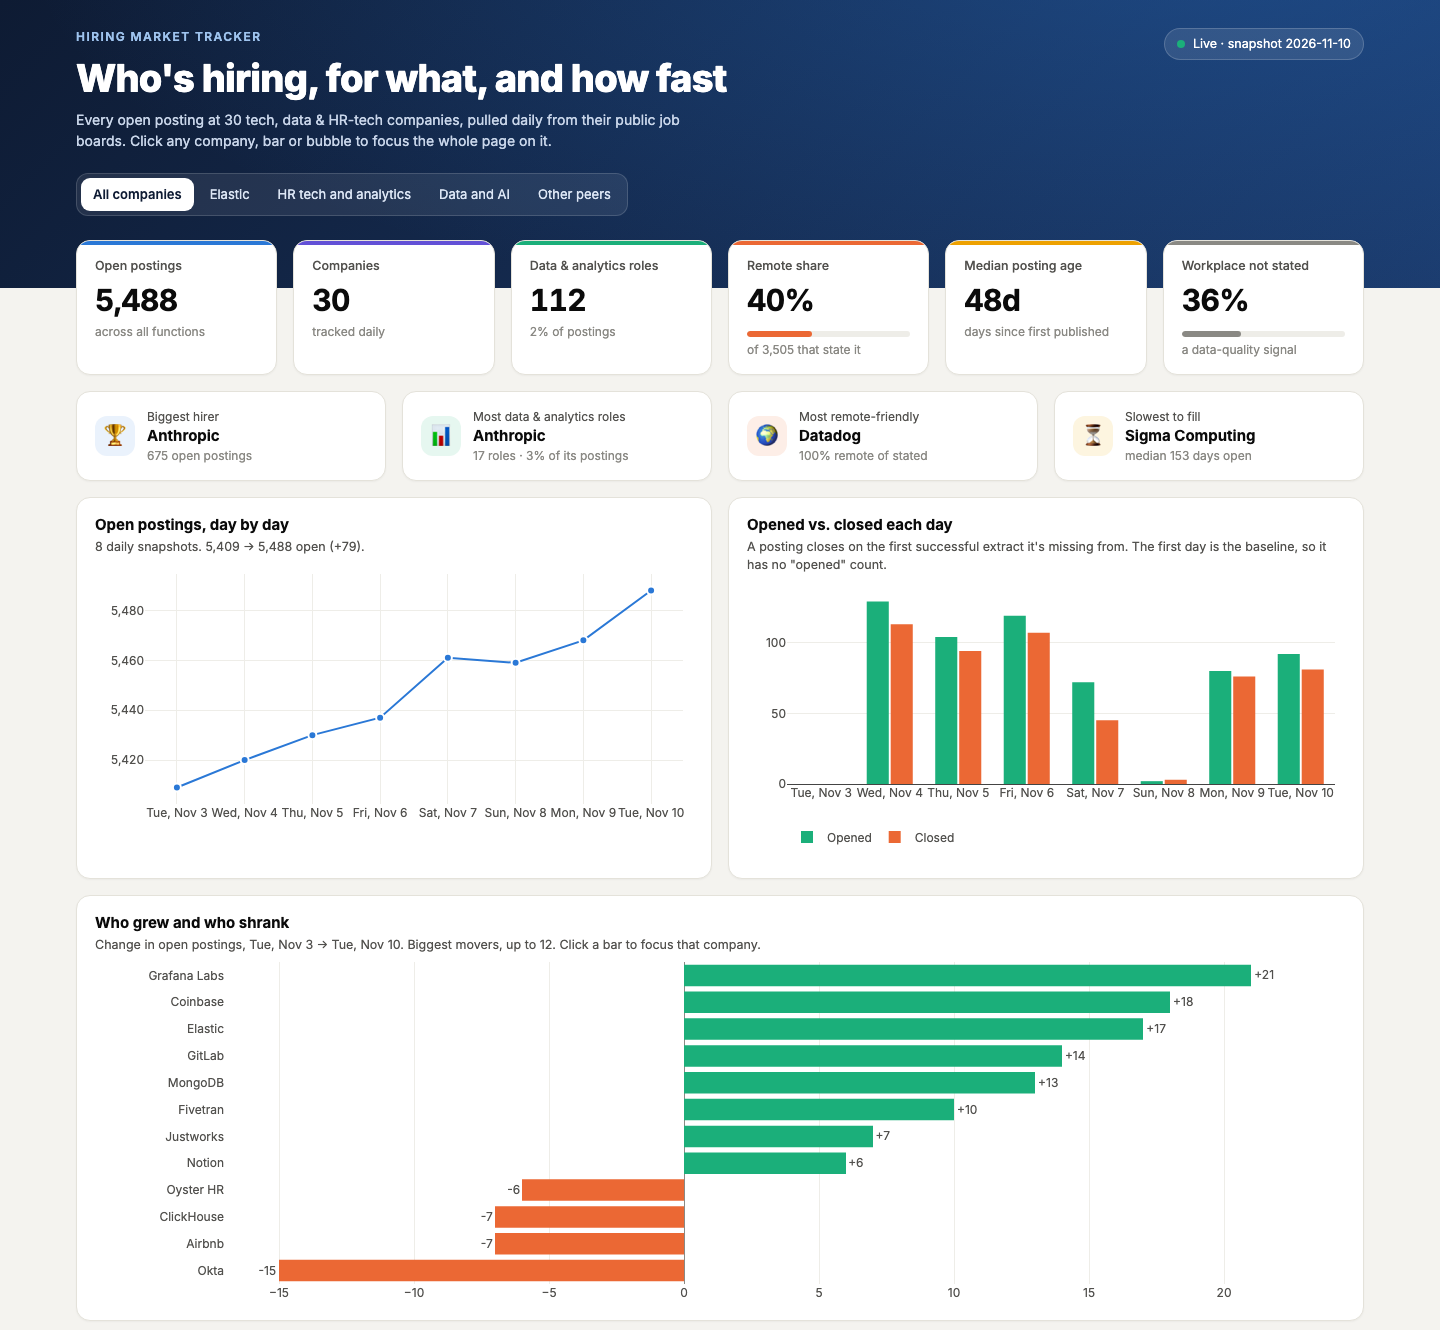
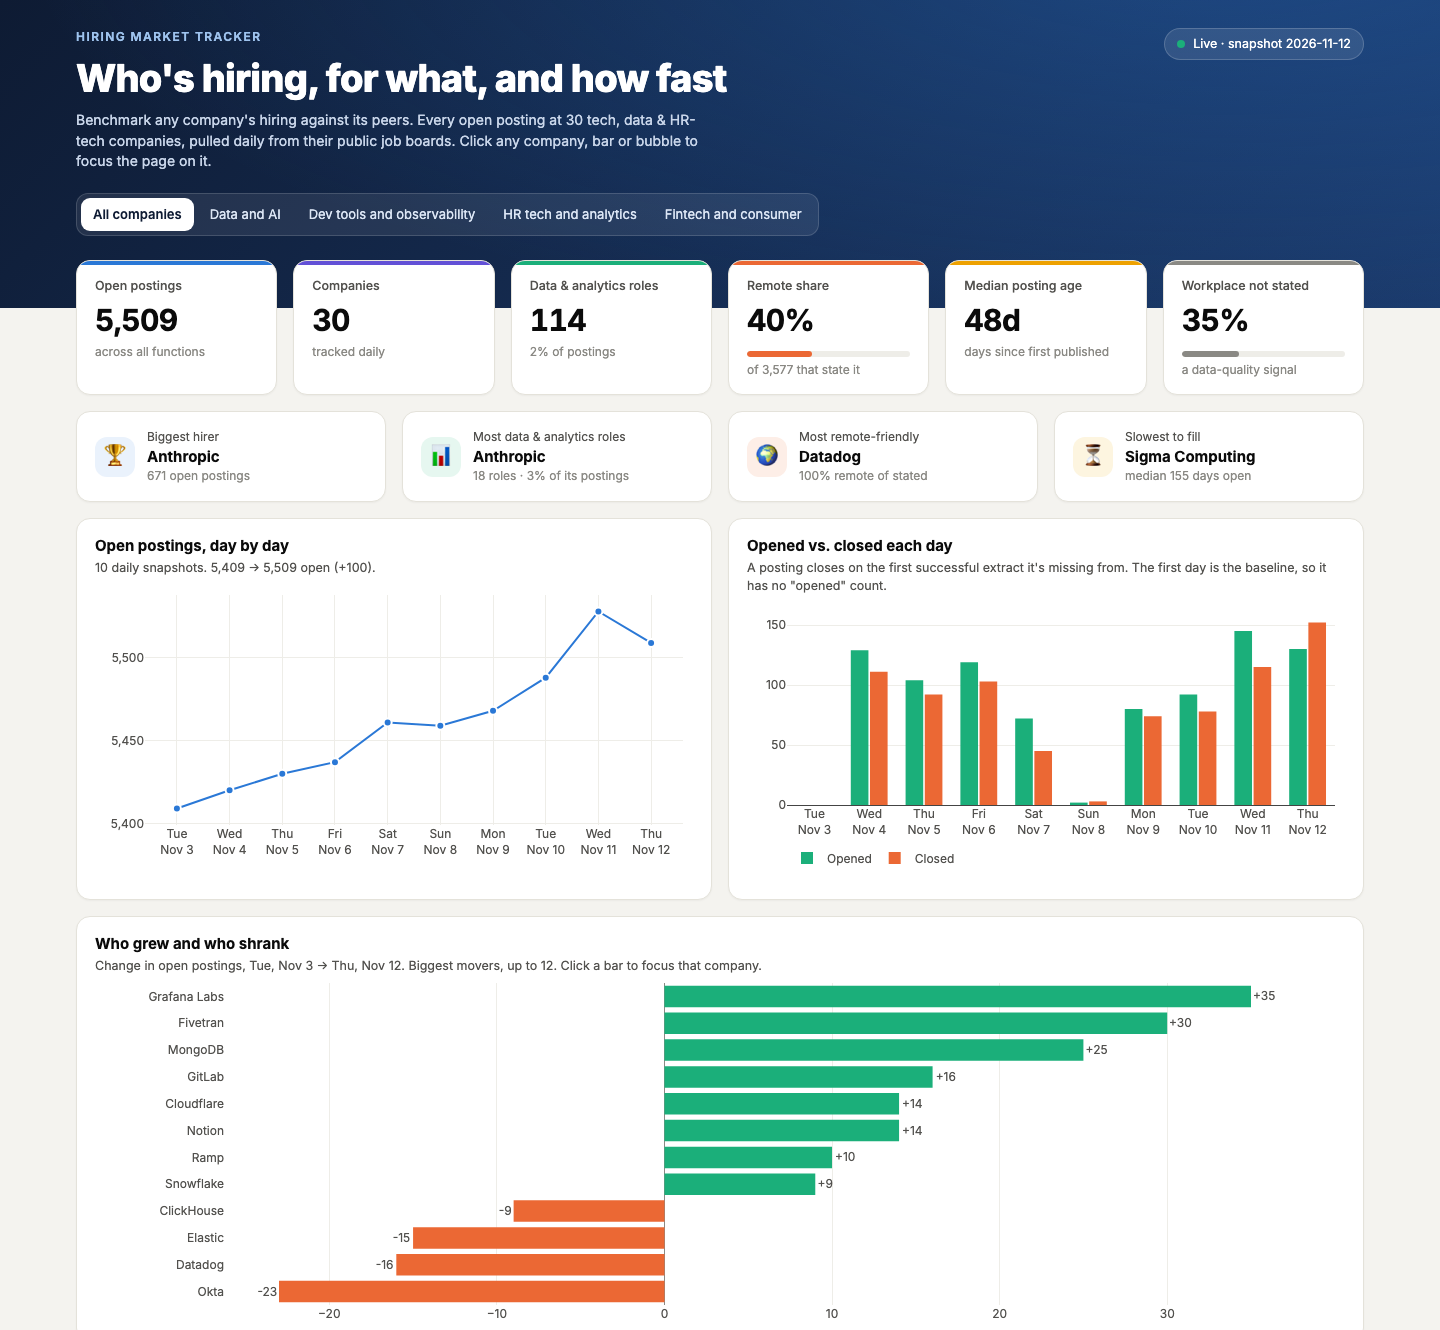
Two-line date labels for 10+ days; README numbers match the re-pulled Nov 12 snapshot

diff --git a/dashboard/template.html b/dashboard/template.html
@@ -316,6 +316,8 @@ function bubble() {
 // ---------- Day by day ----------
 const DAYS = [...new Set(DATA.daily.map(r => r.day))].sort();
 const shortDay = d => new Date(d + "T00:00:00Z").toLocaleDateString("en-US", { weekday: "short", month: "short", day: "numeric", timeZone: "UTC" });
+// Two-line axis labels so 10+ days fit without rotating.
+const axisDay = d => shortDay(d).replace(", ", "<br>");
 function byDay(rows, k) { return DAYS.map(d => { const v = rows.filter(r => r.day === d && r[k] != null); return v.length ? v.reduce((t, r) => t + r[k], 0) : null; }); }
 
 function trend() {
@@ -324,7 +326,7 @@ function trend() {
   document.getElementById("trend-hint").textContent =
     `${DAYS.length} daily snapshots. ${fmt(first)} → ${fmt(last)} open (${d >= 0 ? "+" : ""}${fmt(d)}).`;
   Plotly.react("trend", [{
-    type: "scatter", mode: "lines+markers", x: DAYS.map(shortDay), y: open, line: { color: "#2A78D6", width: 2 },
+    type: "scatter", mode: "lines+markers", x: DAYS.map(axisDay), y: open, line: { color: "#2A78D6", width: 2 },
     marker: { size: 8, color: "#2A78D6", line: { color: "#fff", width: 2 } },
     hovertemplate: "<b>%{x}</b><br>%{y:,} open<extra></extra>",
   }], { ...BASE, height: 280, margin: { l: 50, r: 10, t: 10, b: 40 },
@@ -335,7 +337,7 @@ function trend() {
 }
 
 function flow() {
-  const rows = inFocus(DATA.daily), x = DAYS.map(shortDay);
+  const rows = inFocus(DATA.daily), x = DAYS.map(axisDay);
   Plotly.react("flow", [
     { type: "bar", name: "Opened", x, y: byDay(rows, "new_n"), marker: { color: "#1BAF7A" }, hovertemplate: "<b>%{x}</b><br>Opened: %{y}<extra></extra>" },
     { type: "bar", name: "Closed", x, y: byDay(rows, "closed").map((v, i) => i === 0 ? null : v), marker: { color: "#EB6834" }, hovertemplate: "<b>%{x}</b><br>Closed: %{y}<extra></extra>" },

diff --git a/README.md b/README.md
@@ -10,20 +10,20 @@ Companies publish every open role on public ATS job boards, but a board only sho
 
 ## What it shows (snapshot of 2026-11-12)
 
-- 5,499 open postings across 30 companies in four industry groups: data and AI, dev tools and observability, HR tech and analytics, fintech and consumer. 115 are data and analytics roles (analyst, analytics engineer, data scientist, data engineer, BI).
-- Median posting age is 45 days. Sigma Computing's median is 155 days.
-- Of the 3,566 postings that state a workplace, 40% are remote. 35% of postings don't state one at all; Elastic and Okta never do.
+- 5,509 open postings across 30 companies in four industry groups: data and AI, dev tools and observability, HR tech and analytics, fintech and consumer. 114 are data and analytics roles (analyst, analytics engineer, data scientist, data engineer, BI).
+- Median posting age is 48 days. Sigma Computing's median is 155 days.
+- Of the 3,577 postings that state a workplace, 40% are remote. 35% of postings don't state one at all; Elastic and Okta never do.
 
 ## First 10 days (2026-11-03 to 2026-11-12)
 
 Ten daily snapshots, all 30 companies extracted successfully on every day.
 
-- 6,257 distinct postings seen. 848 opened after the first day and 758 closed, so open postings rose from 5,409 to 5,499 (+1.7%).
+- 6,282 distinct postings seen. 873 opened after the first day and 773 closed, so open postings rose from 5,409 to 5,509 (+1.8%).
 - Postings go up on weekdays. The two Wednesday snapshots found 129 and 145 new postings; the Sunday snapshot found 2.
-- Roles that closed had been open a long time. The median closed posting had been listed for 57 days, and 29% for more than 90. Only 43 postings opened and closed inside the 10 days.
-- Steady totals hide a lot of churn. Dev tools and observability opened 335 postings and closed 333, ending flat (2,120 to 2,122). Fintech and consumer grew 3.9% and data and AI 2.6%.
-- Sales grew the most of any function (1,644 to 1,684, +40). Engineering slipped from 1,855 to 1,842.
-- Fastest growing: Grafana Labs (123 to 155) and Fivetran (161 to 189). Okta shrank the most (392 to 367, with 73 closed against 48 opened), followed by Datadog (398 to 383).
+- Roles that closed had been open a long time. The median closed posting had been listed for 57 days, and 30% for more than 90. Only 45 postings opened and closed inside the 10 days.
+- Steady totals hide a lot of churn. Dev tools and observability opened 340 postings and closed 331, ending almost flat (2,120 to 2,129). Fintech and consumer grew 4.1% and data and AI 2.9%.
+- Sales grew the most of any function (1,644 to 1,689, +45). Engineering slipped from 1,855 to 1,848.
+- Fastest growing: Grafana Labs (123 to 158) and Fivetran (161 to 191). Okta shrank the most (392 to 369, with 71 closed against 48 opened), followed by Datadog (398 to 382).
 
 ## Architecture
 
